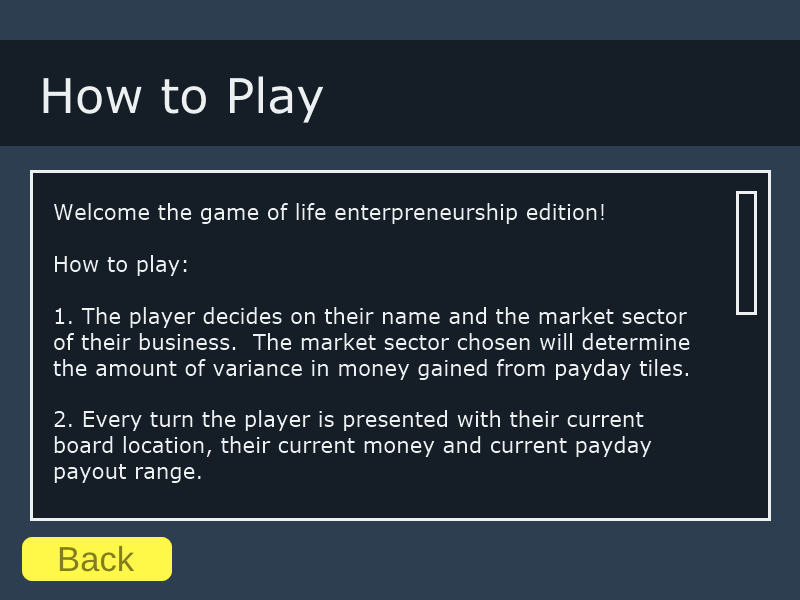
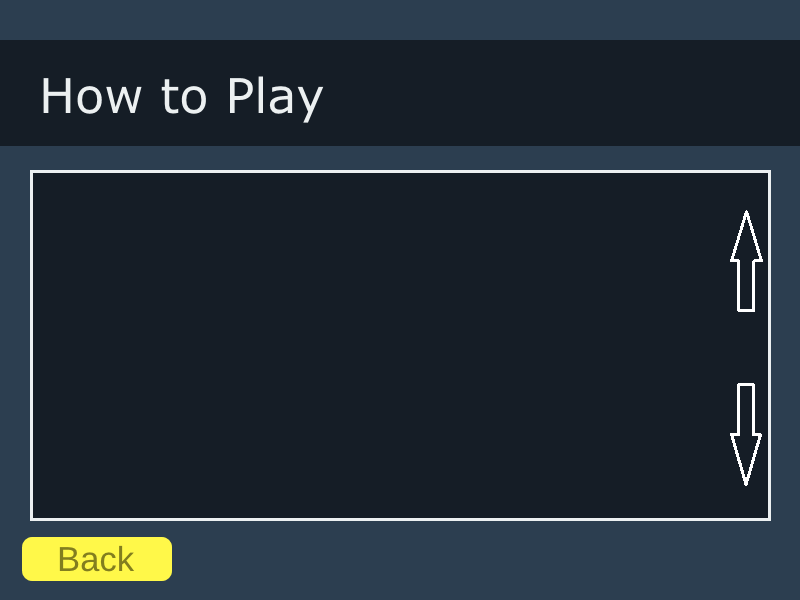
added images, and added code in instructions.java is commented out since I need to edit something else first

diff --git a/src/main/java/edu/asu/cst316/Instructions.java b/src/main/java/edu/asu/cst316/Instructions.java
@@ -15,6 +15,7 @@ import org.newdawn.slick.state.StateBasedGame;
 public class Instructions extends BasicGameState{
 	public String mouse = "";
 	public Image background;
+	public Image instructions;
 	
 	public Instructions(int state){
 	}
@@ -22,6 +23,8 @@ public class Instructions extends BasicGameState{
 	//@Override
 	public void init(GameContainer gc, StateBasedGame sbg) throws SlickException {
 		background = new Image("images/u1.png");
+		instructions = new Image("images/instructions");
+		
 	}
 
 	//@Override
@@ -39,6 +42,16 @@ public class Instructions extends BasicGameState{
 		{
 			sbg.enterState(0);
 		}
+		/*if(
+				input.isMouseButtonDown(0) &&
+				xPosition > 20 &&
+				xPosition < 170 &&
+				yPosition < 60 &&
+				yPosition > 20)
+		{
+			updateBoardView(instructions.getCurrentSpace().getPosX(), instructions.getCurrentSpace().getPosY());
+		}
+		**/		
 		
 	}
 
@@ -52,4 +65,10 @@ public class Instructions extends BasicGameState{
 		return 1;
 	}
 	
+	/*public void updateBoardView(int x, int y){
+		instructions.getSubImage(x, y, 1372, 624).getScaledCopy((float) .5); 
+		//playerX = x;
+		//playerY = y;
+	}
+	**/
 }

diff --git a/src/main/java/edu/asu/cst316/GameMain.java b/src/main/java/edu/asu/cst316/GameMain.java
@@ -38,7 +38,7 @@ public class GameMain extends BasicGameState{
 	public GameMain(int state){
 	}
 
-	//@Override
+	@Override
 	public void init(GameContainer gc, StateBasedGame sbg) throws SlickException {
 		background = new Image("images/u2.png");
 		gameBoard = new Image("images/board5.png");

diff --git a/src/test/java/edu/asu/cst316/GameBoardTest.java b/src/test/java/edu/asu/cst316/GameBoardTest.java
@@ -1,4 +1,4 @@
-package test.java.edu.asu.cst316;
+/*package test.java.edu.asu.cst316;
 
 //import static org.junit.Assert.*;
 
@@ -49,3 +49,4 @@ public class GameBoardTest extends TestCase {
 		System.out.println(gameboard.getCurrentSpace().getPosX());
 	}
 }
+**/

diff --git a/src/test/java/edu/asu/cst316/FullBoardTest.java b/src/test/java/edu/asu/cst316/FullBoardTest.java
@@ -1,4 +1,4 @@
-package test.java.edu.asu.cst316;
+/*package test.java.edu.asu.cst316;
 
 //import static org.junit.Assert.*;
 
@@ -34,3 +34,4 @@ public class FullBoardTest extends TestCase {
 	}
 	
 }
+**/
